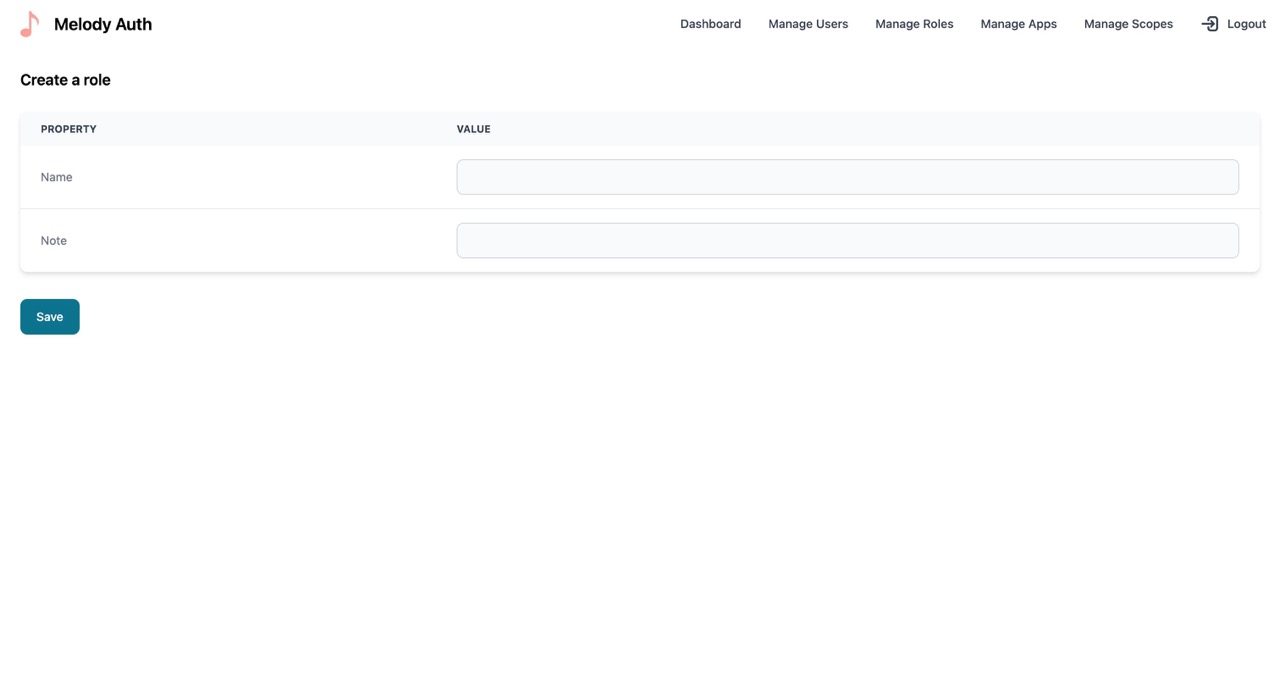
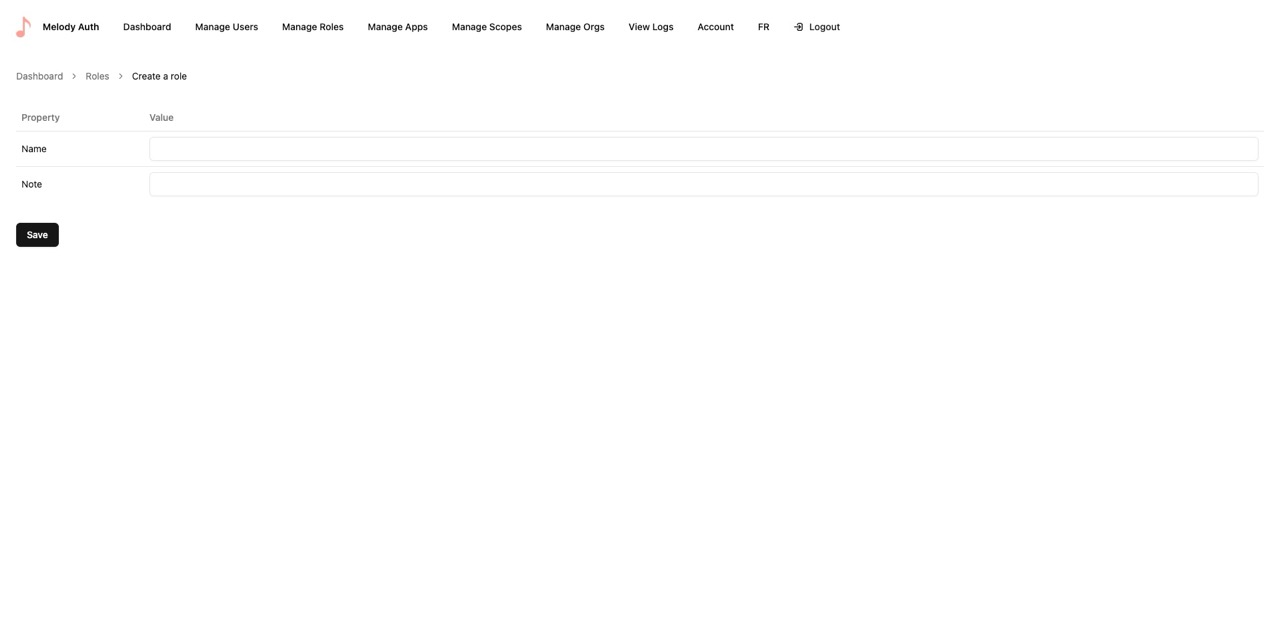
Update docs and screenshots for admin panel

diff --git a/docs/screenshots.md b/docs/screenshots.md
@@ -16,6 +16,9 @@ These screenshots showcase various pages and emails related to identity system a
 ### App Consent
 ![App Consent](https://raw.githubusercontent.com/ValueMelody/melody-auth/main/docs/screenshots/app_consent.jpeg)
 
+### Passkey Enroll
+![Passkey Enroll](https://raw.githubusercontent.com/ValueMelody/melody-auth/main/docs/screenshots/passkey_enroll.jpeg)
+
 ### MFA Enroll
 ![OTP MFA](https://raw.githubusercontent.com/ValueMelody/melody-auth/main/docs/screenshots/mfa_enroll.jpeg)
 
@@ -51,6 +54,9 @@ These screenshots showcase various pages and emails related to identity system a
 ### Reset MFA Policy
 ![Reset MFA Policy](https://raw.githubusercontent.com/ValueMelody/melody-auth/main/docs/screenshots/reset_mfa_policy.jpeg)
 
+### Update Info Policy
+![Update Info Policy](https://raw.githubusercontent.com/ValueMelody/melody-auth/main/docs/screenshots/update_info_policy.jpeg)
+
 ## Admin Panel Pages
 
 ### Dashboard
@@ -81,3 +87,22 @@ These screenshots showcase various pages and emails related to identity system a
 ![Scope](https://raw.githubusercontent.com/ValueMelody/melody-auth/main/docs/screenshots/admin-panel-scope.jpeg)
 
 ![Create Scope](https://raw.githubusercontent.com/ValueMelody/melody-auth/main/docs/screenshots/admin-panel-scope-create.jpeg)
+
+### Orgs
+![Orgs](https://raw.githubusercontent.com/ValueMelody/melody-auth/main/docs/screenshots/admin-panel-orgs.jpeg)
+
+![Org](https://raw.githubusercontent.com/ValueMelody/melody-auth/main/docs/screenshots/admin-panel-org.jpeg)
+
+![Create Org](https://raw.githubusercontent.com/ValueMelody/melody-auth/main/docs/screenshots/admin-panel-org-create.jpeg)
+
+### Logs
+![Logs](https://raw.githubusercontent.com/ValueMelody/melody-auth/main/docs/screenshots/admin-panel-logs.jpeg)
+
+![Email Log](https://raw.githubusercontent.com/ValueMelody/melody-auth/main/docs/screenshots/admin-panel-email-log.jpeg)
+
+![Sms Log](https://raw.githubusercontent.com/ValueMelody/melody-auth/main/docs/screenshots/admin-panel-sms-log.jpeg)
+
+![Sign-in Log](https://raw.githubusercontent.com/ValueMelody/melody-auth/main/docs/screenshots/admin-panel-sign-in-log.jpeg)
+
+### Account
+![Account](https://raw.githubusercontent.com/ValueMelody/melody-auth/main/docs/screenshots/admin-panel-account.jpeg)

diff --git a/docs/admin-panel-setup.md b/docs/admin-panel-setup.md
@@ -85,3 +85,8 @@ Steps to Deploy:
     ```
     npm run cf:deploy
     ```
+
+## Custom Role Access for the Admin Panel
+By default, the admin panel only accepts logins from the super_admin role. To enable login using a custom role with limited permissions, follow these steps:
+1. Add your custom role to the **AllowedRoles** array in /admin-panel/tools/access.
+2. Define the access permissions for your custom role within **RoleAccesses** in /admin-panel/tools/access.

diff --git a/README.md b/README.md
@@ -93,7 +93,7 @@
 - Manage Roles
 - Manage Organizations
 - View Logs
-- Access Control
+- Access Control [Custom Role Access for the Admin Panel](https://auth.valuemelody.com/admin-panel-setup.html#custom-role-access-for-the-admin-panel)
 
 ## Demo & Examples
 - [Vite React Example](https://github.com/ValueMelody/melody-auth/tree/main/examples/vite-react-demo)
